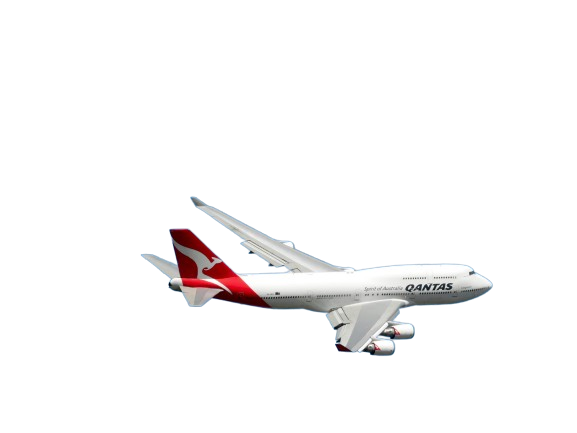
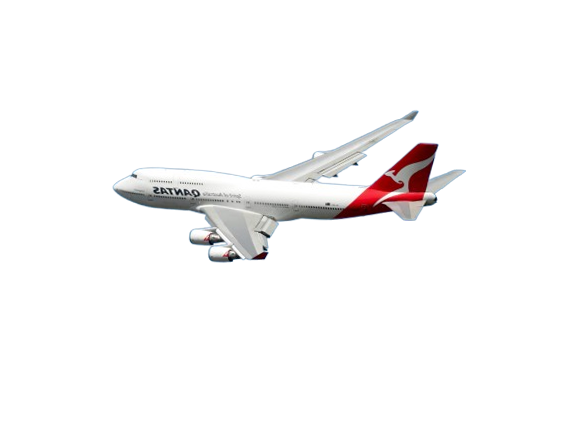
aeroplane

Changed region(s): [[0.1872, 0.2402, 0.8735, 0.8406]]

diff --git a/index.html b/index.html
@@ -64,7 +64,7 @@
     </style>
 </head>
 
-<body>
+<body class="overflow-hidden">
     <!-- Preloader -->
     <div class="preloader d-flex align-items-center justify-content-center">
         <div class="preloader-circle"></div>
@@ -305,8 +305,8 @@
       <!-- doctor card end -->
 
     <!-- ##### Service Area Start ##### -->
-    <section class="our-services-area bg-gray section-padding-100-0">
-        <div class="container">
+    <section style="overflow: hidden;" class="our-services-area bg-gray section-padding-100-0 border border-danger overflow-hidden">
+        <div max-w class="container overflow-hidden">
             <div class="row">
                 <div class="col-12">
                     <!-- Section Heading -->
@@ -362,10 +362,25 @@
 
                     </div>
                 </div>
-
-                <div class="col-12 col-lg-6 position-relative">
-                    <img src="img/bg-img/hppng.png" alt="">
-                    <img class="position-absolute" src="img/bg-img/pl.png" alt="">
+<style>
+    .jahaj{
+       animation: move 10s forwards infinite;
+    }
+    @keyframes move {
+        0%{
+            transform: translateX(30%);
+        }
+        5%{opacity: 1;}
+        100%{
+            transform: translateX(-280vw);
+            scale: 0.3;
+            opacity: 0;
+        }
+    }
+</style>
+                <div class="col-12 col-lg-6 position-relative ">
+                    <img class="z-inde" src="img/bg-img/hppng.png" alt="">
+                    <img class="position-absolute jahaj" src="img/bg-img/pl.png" alt="">
                     <!-- <div class="alazea-video-area bg-overlay mb-100">
                         <img src="img/bg-img/23.jpg" alt="">
                         <a href="http://www.youtube.com/watch?v=7HKoqNJtMTQ" class="video-icon">
